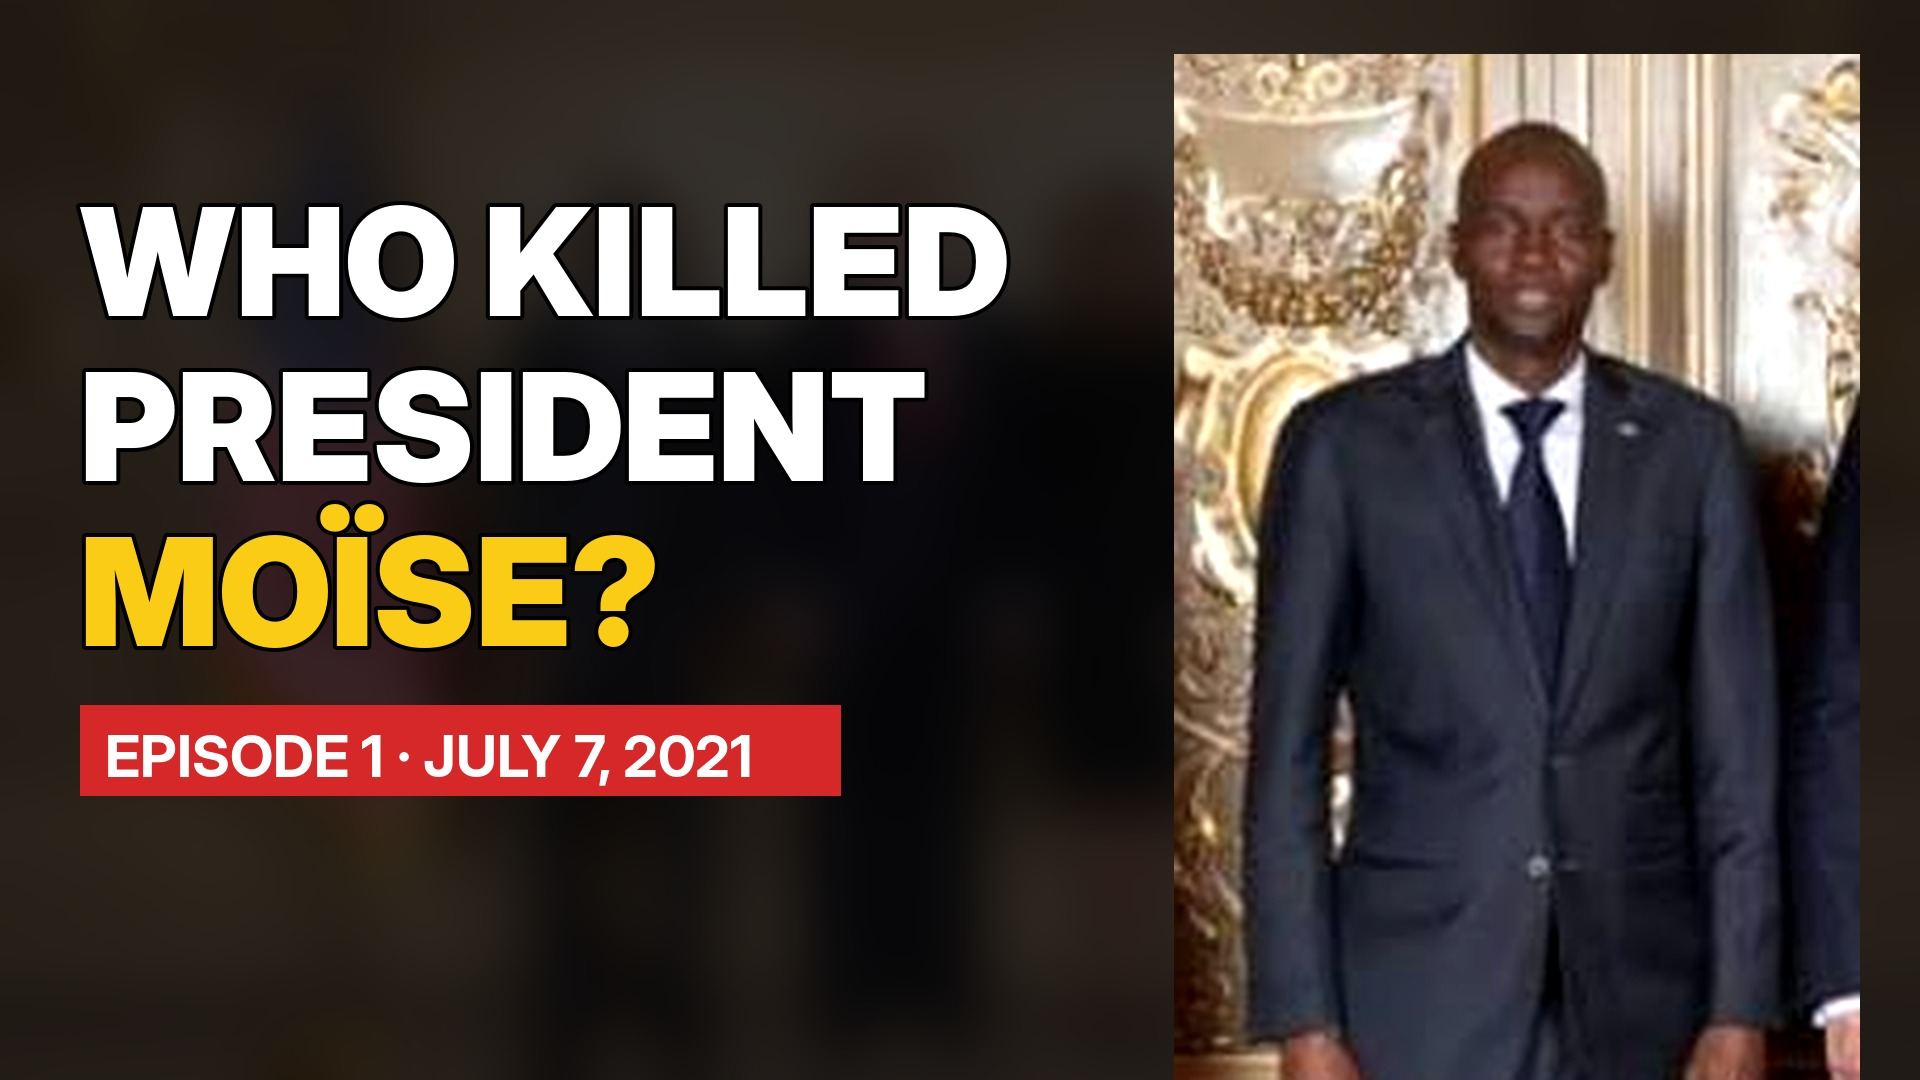
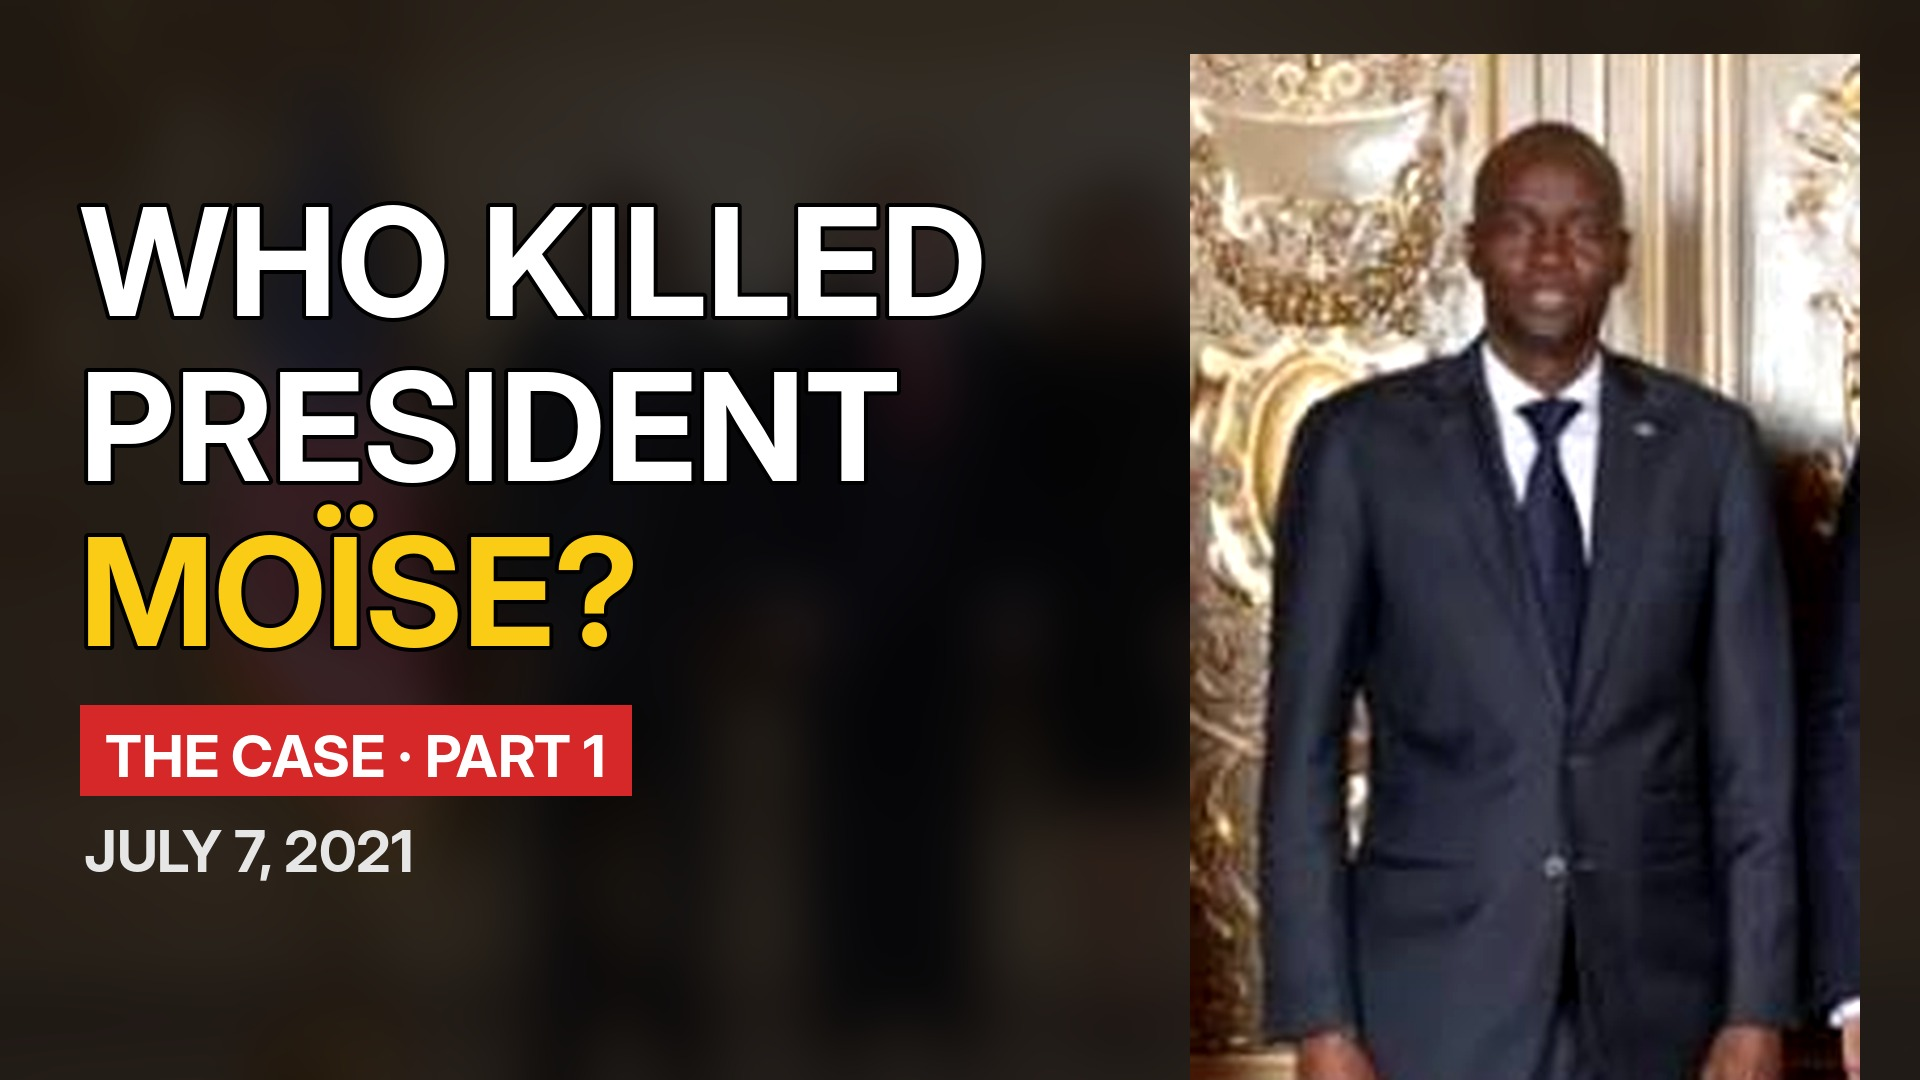
Haiti Brief: S1E1 retitled as news (Part 1), new thumbnail
Claude-Session: https://claude.ai/code/session_0192cWbS5uq2wgyRk9dmU9F9

diff --git a/haiti-brief/2026-11-17/KIT.md b/haiti-brief/2026-11-17/KIT.md
@@ -1,21 +1,21 @@
 # Haiti Brief — KIT, Madi 17 nov 2026
 
-## 8:00 PM ET · MADI 17 NOV · S1E1 · SERI JOVENEL · LONG-FORM 6:50 · "Who Killed President Jovenel Moïse? Episode 1"
-**Estati:** ✅ PARE · 6:50 · 1920×1080 · Claire + Marc (C4 v2, C2, C3, C5, C6a, C6b, C8, K1, K2) + narasyon · **Altered content: Yes** · YouTube sèlman (pa FB).
+## 8:00 PM ET · MADI 17 NOV · S1E1 · SERI JOVENEL · LONG-FORM 6:50 · "The Jovenel Moïse Assassination, Part 1"
+**Estati:** ✅ PARE · 6:50 · 🔁 tit + thumbnail chanje 22:15 ET (Sam: "Episode" ka fè moun panse se yon fim → "Part 1", "case", dat reyèl) · 1920×1080 · Claire + Marc (C4 v2, C2, C3, C5, C6a, C6b, C8, K1, K2) + narasyon · **Altered content: Yes** · YouTube sèlman (pa FB).
 - Video: `haiti-brief/2026-11-17/HaitiBrief_Series_S1E1_Nov_17.mp4` — https://github.com/sanemelj/FNMHQ-Faceless-/raw/main/haiti-brief/2026-11-17/HaitiBrief_Series_S1E1_Nov_17.mp4
-- Thumbnail: `HaitiBrief_Thumb_S1E1_A.jpg`. Playlist nouvo: **"Who Killed President Jovenel Moïse?"** (kreye l) + Haiti Explained. End screen: Subscribe + hb-L5 (d52bewIY-cI).
+- Thumbnail: `HaitiBrief_Thumb_S1E1_A.jpg`. Playlist nouvo: **"The Jovenel Moïse Case"** (kreye l) + Haiti Explained. End screen: Subscribe + hb-L5 (d52bewIY-cI).
 - Si **C1 v3 / C7 v3** rive anvan 2 PM ET, Claude ap re-rann fichye a (menm non + `_v2`) — tcheke KIT la anvan w upload.
-- Kòmantè pin: `Episode 2 is coming: the fight over how long a president could stay. What do you remember about July 7, 2021?`
+- Kòmantè pin: `Part 2 is coming: the fight over how long a president could stay. What do you remember about July 7, 2021?`
 
 **Tit:**
 ```
-Who Killed President Jovenel Moïse? Episode 1: The Night of July 7
+The Jovenel Moïse Assassination: What Happened on July 7, 2021 | Part 1
 ```
 **Deskripsyon:**
 ```
 July 7, 2021. Before dawn, armed men reached the private home of Haiti's president in Pèlerin, in the hills above Pétion-Ville. By sunrise, Jovenel Moïse was dead.
 
-Episode 1 of our series on the Jovenel Moïse case: the night of the attack, the calls for help, the hunt for the commando, the former soldiers from Colombia, and the first suspect named by police — Christian Sanon, who is now on trial in Miami and has pleaded not guilty.
+Part 1 of our investigation into the Jovenel Moïse case, based on police statements, court records and reporting by AP, the Miami Herald and others: the night of the attack, the calls for help, the hunt for the commando, the former soldiers from Colombia, and the first suspect named by police — Christian Sanon, who is now on trial in Miami and has pleaded not guilty.
 
 0:00 The Jovenel Moïse case
 0:55 One o'clock
@@ -31,5 +31,5 @@ Photos: The White House, 2018 (public domain); Peru Ministry of Foreign Affairs 
 ```
 **Tags:**
 ```
-Jovenel Moise, Who killed Jovenel Moise, Haiti president assassination, July 7 2021, Haiti, Haiti news, Christian Sanon, Martine Moise, Colombian mercenaries, CTU Security, Pelerin, Petion-Ville, Haiti Brief
+Jovenel Moise, Jovenel Moise assassination, Who killed Jovenel Moise, Haiti president assassination, July 7 2021, Haiti, Haiti news, Christian Sanon, Martine Moise, Colombian mercenaries, CTU Security, Pelerin, Petion-Ville, Haiti Brief
 ```

diff --git a/haiti-brief/2026-11-15/NOTES.md b/haiti-brief/2026-11-15/NOTES.md
@@ -167,3 +167,4 @@
 - 21:10 ET (Nov. 16) · Claude → Kai: 🔁 **ANILE nòt 21:00 la:** hb-L6 **TOUNEN Madi 11:00 AM ET** (A1–A5 anvan 7:30 AM; L2 si referans yo pare, sinon L1 pou tout 5 yo). Sam di priyorite a se **SERI JOVENEL LA**: m ap monte **S1E1 aswè a** ak 9 klip nou genyen yo — **C1 v2 ak C7 v2 PA NESESÈ ANKÒ, pa fè yo** (ekonomize kredi). S1E1 → **Madi 8:00 PM ET**. Demen maten m ap voye klip **S1E2** yo (pou Mèkredi 8 PM). Lòd ou: hb-L6 A1–A5 → footage CdB (9 AM) → moso Ulloa CIED yo → mach pro-Bukele (Madi midi).
 - 21:32 ET · Kai: FINI lòd travay lannwit la, etap 1+2: (1) referans rad **L2** kreye epi pouse (`anchor/refs/HaitiBrief_ref_twoshot_L2.jpg.b64.txt`); (2) **hb-L6 A1–A5 LIVRE** nan `anchor/2026-11-17_hbL6/from_kai/` (base64 + README/QC) — rad L2, QC transkripsyon pase (detay nan README a; A4: tchèk zòrèy pou 'Haiti's'/'Fils-Aimé'; kat dèyè a gen etikèt + pin malgre pwomt la — efase nan montaj, menm ka anvan yo). Anvan dat limit 7:30 AM ET a lontan.
 - 21:32 ET · Kai: Resevwa nòt 21:10 ET ou a: **C1 v2 + C7 v2 ANILE — m pa fè yo** (ekonomize kredi konfime). S1E1 ak 9 klip yo → Madi 8:00 PM ET. Lòd k ap kontinye nan kouz lannwit yo: footage Croix-des-Bouquets/Plaine (pou hb-S13 Madi 9 AM, anvan 7:30 AM ET, nan `footage/2026-11-17_cdb-reprisals/` — pa kò, pa timoun, pa gwo plan figi sivil) → moso Ulloa CIED yo → mach pro-Bukele (plan laj anvan 1:30 PM ET Madi pou Short 3 PM la).
+- 22:15 ET (Nov. 16) · Claude → Kai: 🔁 **S1E1: nouvo TIT + nouvo THUMBNAIL** (Sam: "Episode" ka fè moun panse se yon fim). Tit: `The Jovenel Moïse Assassination: What Happened on July 7, 2021 | Part 1`. Thumbnail `HaitiBrief_Thumb_S1E1_A.jpg` mete ajou ("THE CASE · PART 1"). Playlist: **"The Jovenel Moïse Case"**. Pran tout tèks la nan `2026-11-17/KIT.md` ankò si w te deja kopye l. Videyo a pa chanje.
